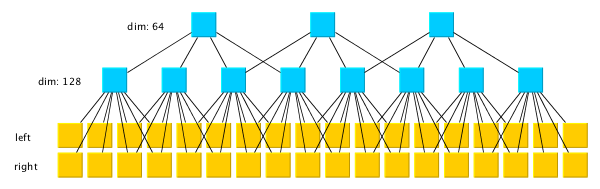
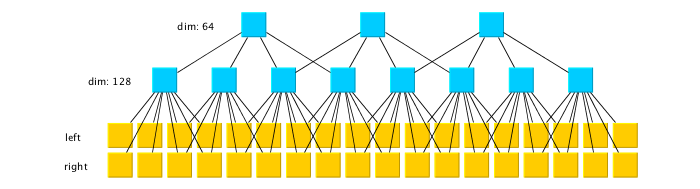
Image fix.

Changed region(s): [[0.06, 0.0529, 0.99, 0.9524], [0.03, 0.8466, 0.06, 0.8995], [0.03, 0.7143, 0.06, 0.7407]]

diff --git a/_posts/2017-10-23-stereo-sound-autoencoder.md b/_posts/2017-10-23-stereo-sound-autoencoder.md
@@ -7,7 +7,7 @@ I've decided to test a small (not very deep) autoencoder on the audio data.
 It has two convolutional layers, with convolutions of size 4 and strides of 2,
 with ReLU nonlinearities. This results in 1/4 frame rate of the original audio.
 
-<img src="{{ site.baseurl}}/media/img/StereoAutoencoder.png" style="margin-left: 50px" />
+<img src="{{ site.baseurl}}/media/img/StereoAutoencoder.png" />
 
 The corresponding deconvolutions are then applied.
 The network is trained using the Adam algorithm using batches of 100 audio
